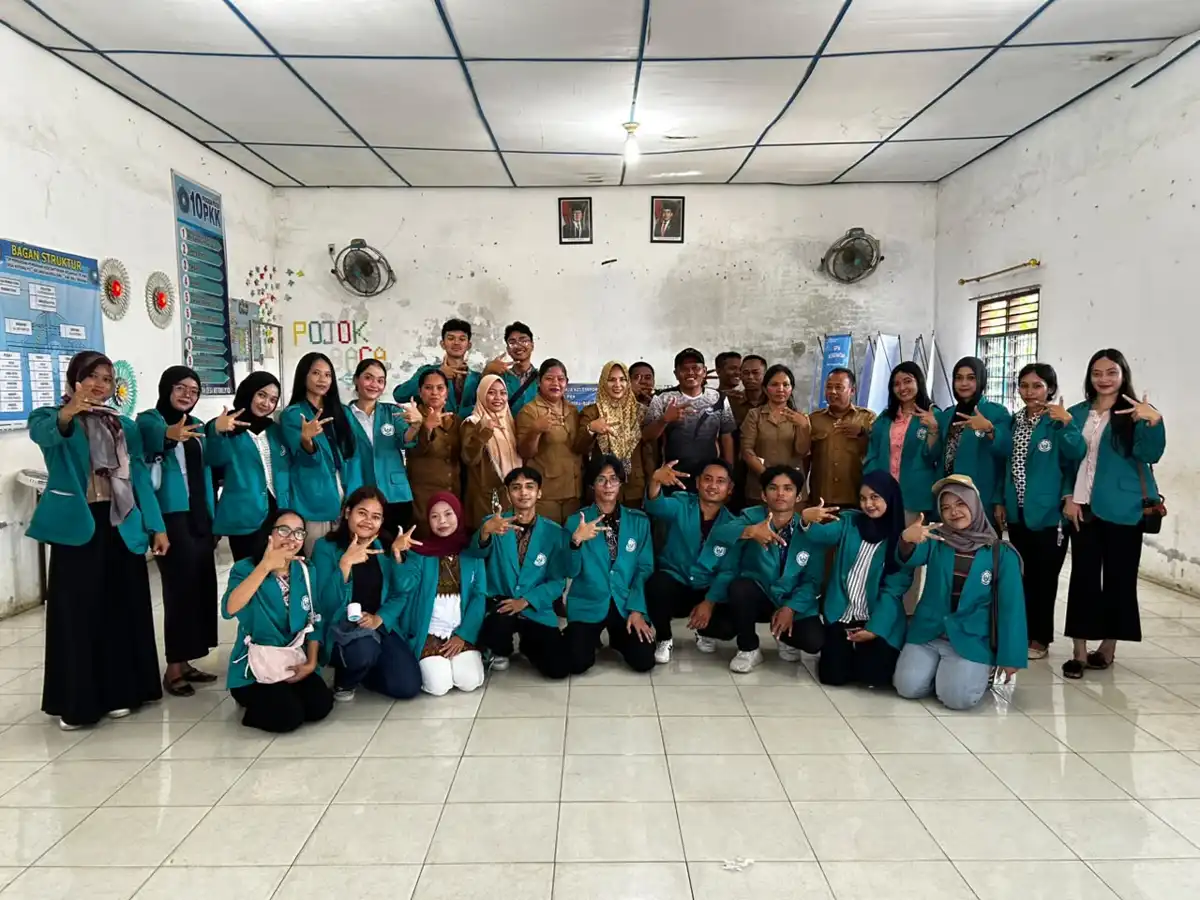
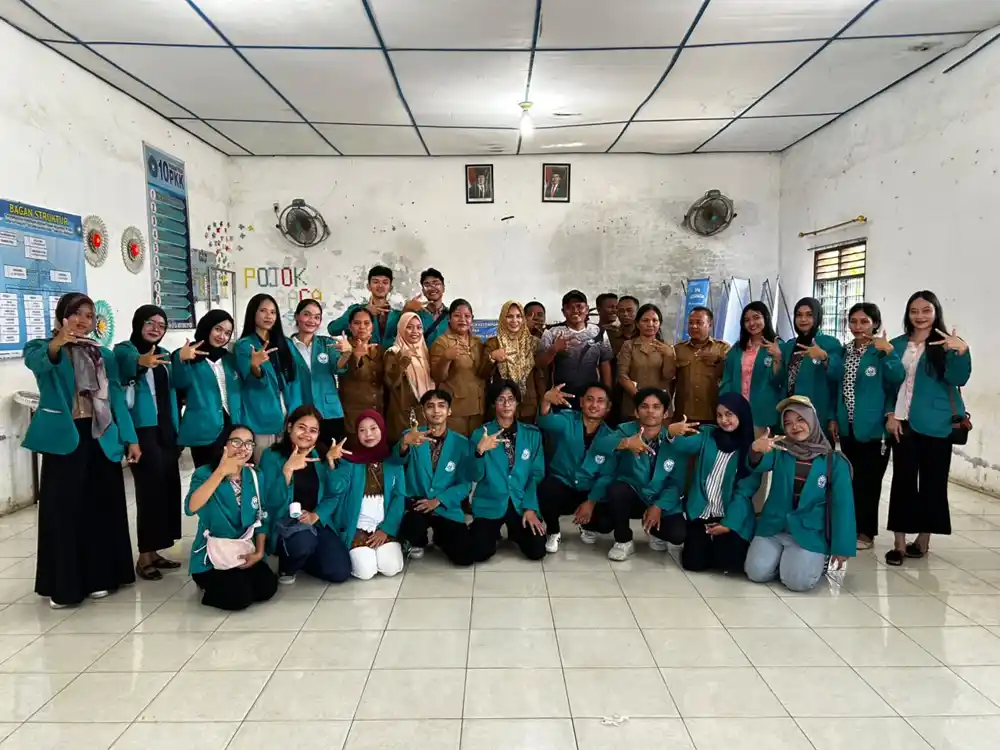
fix optimasi dan fix ui

diff --git a/index.html b/index.html
@@ -117,7 +117,8 @@
             top: 0;
             left: 0;
             width: 100vw;
-            height: 100vh;
+            min-height: 100vh;
+            height: auto;
             background: linear-gradient(180deg, rgba(8, 12, 20, 0.45) 0%, rgba(8, 12, 20, 0.75) 100%), url('images/village_bg.webp');
             background-size: cover;
             background-position: center;
@@ -130,7 +131,8 @@
             box-sizing: border-box;
             transition: opacity 0.6s cubic-bezier(0.4, 0, 0.2, 1), transform 0.6s cubic-bezier(0.4, 0, 0.2, 1);
             color: #f8fafc;
-            overflow: hidden;
+            overflow-y: auto;
+            -webkit-overflow-scrolling: touch;
         }
 
         #welcome-splash-overlay.fade-out {
@@ -1483,16 +1485,19 @@
         var mapInitialized = false;
         var scriptsLoading = false;
         
-        var mapScripts = [
+        var coreScripts = [
             "js/qgis2web_expressions.js",
             "js/leaflet.js",
+            "js/Autolinker.min.js",
+            "js/rbush.min.js",
+            "js/labelgun.min.js"
+        ];
+        
+        var pluginScripts = [
             "js/L.Control.Layers.Tree.min.js",
             "js/leaflet.rotatedMarker.js",
             "js/leaflet.pattern.js",
             "js/leaflet-hash.js",
-            "js/Autolinker.min.js",
-            "js/rbush.min.js",
-            "js/labelgun.min.js",
             "js/labels.js",
             "js/leaflet.photon.js",
             "js/leaflet-measure.js",
@@ -1506,20 +1511,29 @@
             "data/Jalur_10.js"
         ];
 
-        function loadScriptsSequentially(list, callback) {
-            var index = 0;
-            function next() {
-                if (index < list.length) {
-                    var script = document.createElement('script');
-                    script.src = list[index++];
-                    script.onload = next;
-                    script.onerror = next;
-                    document.body.appendChild(script);
-                } else {
-                    if (typeof callback === 'function') callback();
-                }
+        function loadScriptsInParallel(list, callback) {
+            var loadedCount = 0;
+            if (list.length === 0) {
+                if (typeof callback === 'function') callback();
+                return;
             }
-            next();
+            for (var i = 0; i < list.length; i++) {
+                var script = document.createElement('script');
+                script.src = list[i];
+                script.onload = function() {
+                    loadedCount++;
+                    if (loadedCount === list.length) {
+                        if (typeof callback === 'function') callback();
+                    }
+                };
+                script.onerror = function() {
+                    loadedCount++;
+                    if (loadedCount === list.length) {
+                        if (typeof callback === 'function') callback();
+                    }
+                };
+                document.body.appendChild(script);
+            }
         }
 
         function startMapExploration() {
@@ -1534,22 +1548,26 @@
                 btn.style.cursor = 'not-allowed';
             }
             
-            loadScriptsSequentially(mapScripts, function() {
-                if (typeof window.initializeMap === 'function') {
-                    window.initializeMap();
-                }
-                mapInitialized = true;
-                scriptsLoading = false;
-                
-                var overlay = document.getElementById('welcome-splash-overlay');
-                if (overlay) {
-                    overlay.classList.add('fade-out');
-                    setTimeout(function() {
-                        if (overlay.parentNode) {
-                            overlay.parentNode.removeChild(overlay);
-                        }
-                    }, 600);
-                }
+            // Step 1: Load core dependencies in parallel
+            loadScriptsInParallel(coreScripts, function() {
+                // Step 2: Load plugins and data variables in parallel
+                loadScriptsInParallel(pluginScripts, function() {
+                    if (typeof window.initializeMap === 'function') {
+                        window.initializeMap();
+                    }
+                    mapInitialized = true;
+                    scriptsLoading = false;
+                    
+                    var overlay = document.getElementById('welcome-splash-overlay');
+                    if (overlay) {
+                        overlay.classList.add('fade-out');
+                        setTimeout(function() {
+                            if (overlay.parentNode) {
+                                overlay.parentNode.removeChild(overlay);
+                            }
+                        }, 600);
+                    }
+                });
             });
         }
         </script>
